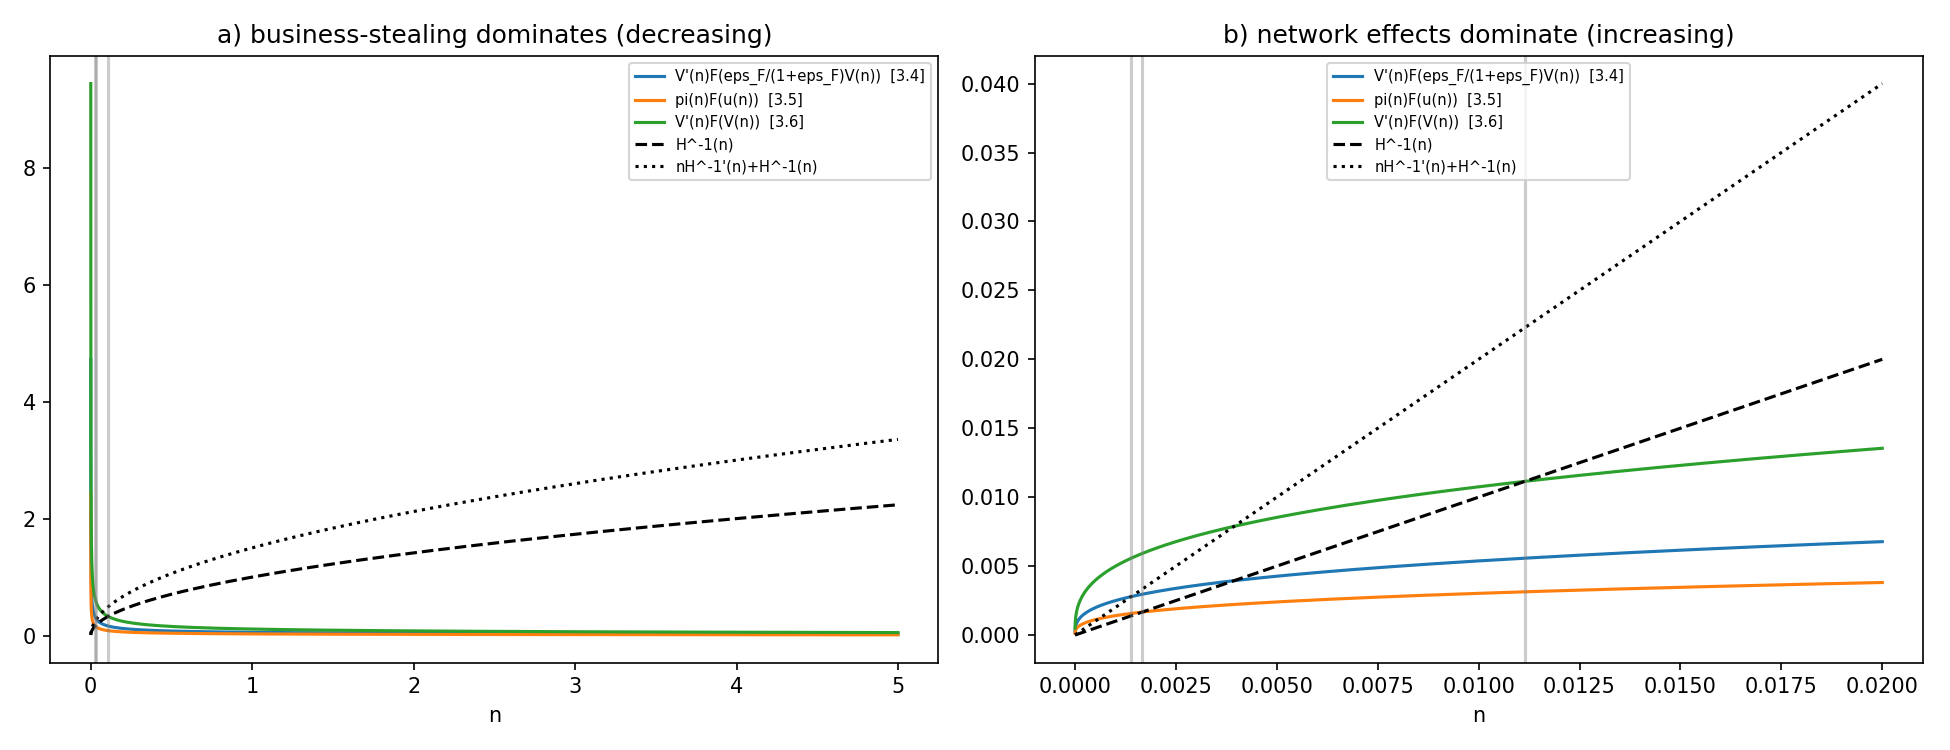
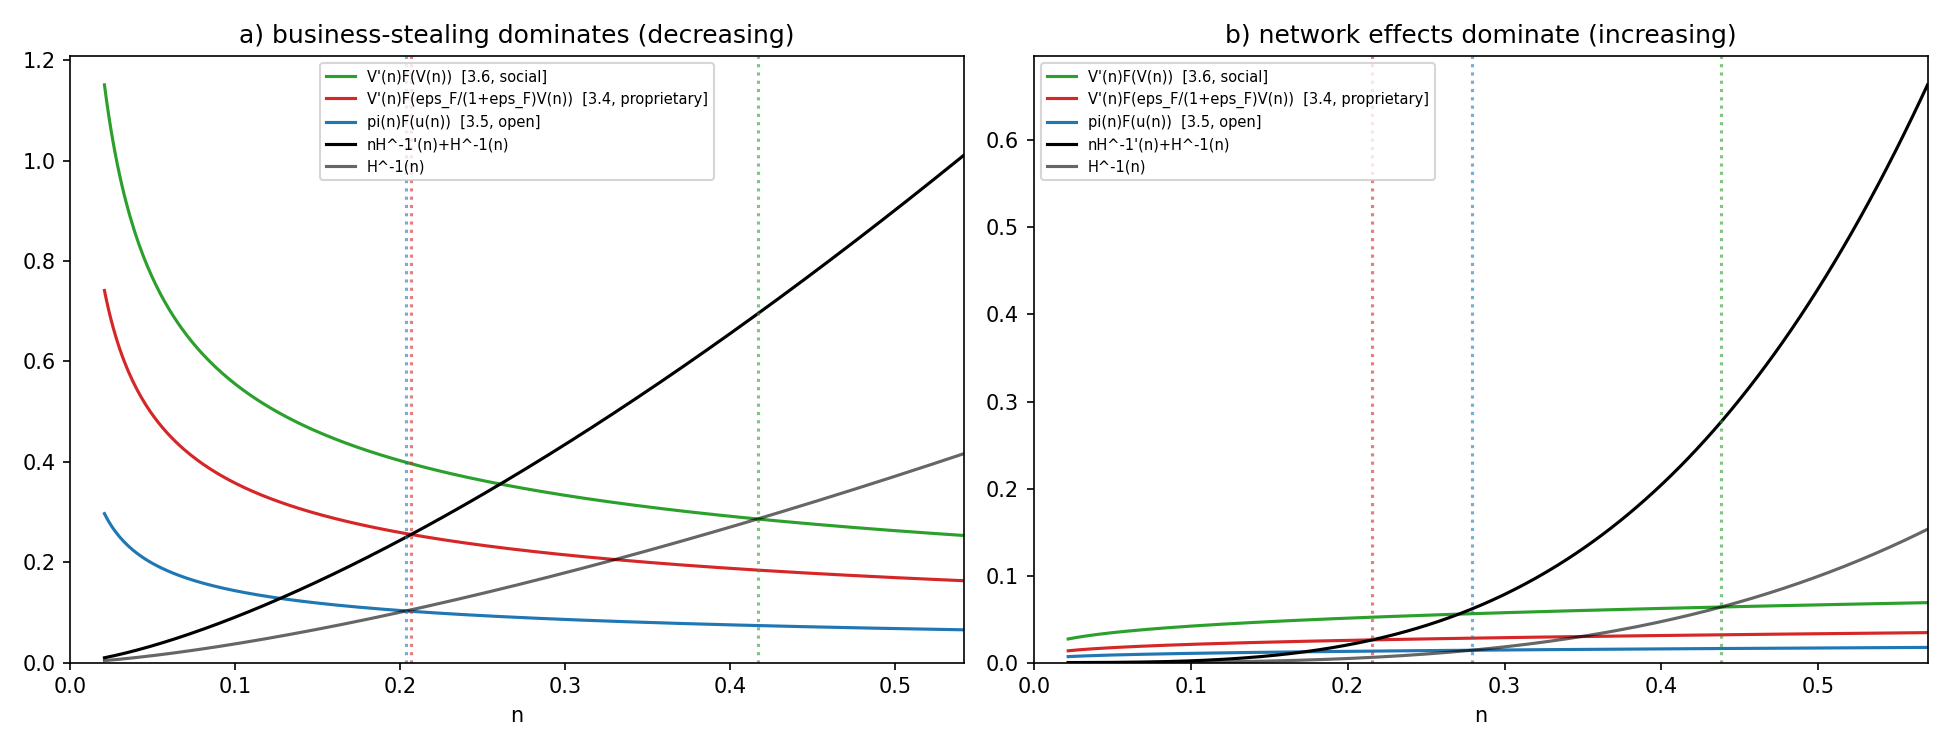
Rebuild Figure 3.1 to actually match the paper's curve shapes
Previous versions used epsilon_H>1 (concave H^-1 curves, wrong shape)
and grids that either collapsed to a point or were dominated by the
unbounded divergence of the LHS curves at n->0. Now uses epsilon_H<1
(convex H^-1 curves matching the paper), a linear n-grid scaled to each
panel's own n_so, and a floor away from the n=0 divergence -- both
panels now visually match the paper's Figure 3.1 (a: decreasing,
b: increasing, both crossing the two entry-cost curves at three points).

diff --git a/writeup.md b/writeup.md
@@ -61,6 +61,12 @@ All headline numeric claims are covered by `pytest` unit tests
   a parameterization where business-stealing dominates (graph a, decreasing
   curves) and one where indirect network effects dominate (graph b,
   increasing curves). Vertical lines mark the resulting `n_p`, `n_fe`, `n_so`.
+  Matching the paper's curvature requires `epsilon_H < 1` (so
+  `H^-1(n) = n**(1/epsilon_H)` is convex/accelerating with zero slope at
+  `n=0`, as in the paper, rather than concave/sqrt-shaped); the plotted `n`
+  range is `[0.05, 1.3] * n_so` so the colored curves' divergence at exactly
+  `n=0` (present whenever `epsilon_V*(1+epsilon_F) != 1`) doesn't dominate
+  the scale — the paper's schematic (unlabeled axes) implicitly does the same.
 - **`prop5_excessive_variety.png`** — `Pi_P(qm)` and `W(qm)` for vertically
   differentiated developers under a parameterization satisfying
   `beta*qL > 2*qH`. Both are concave, but the profit-maximizing threshold